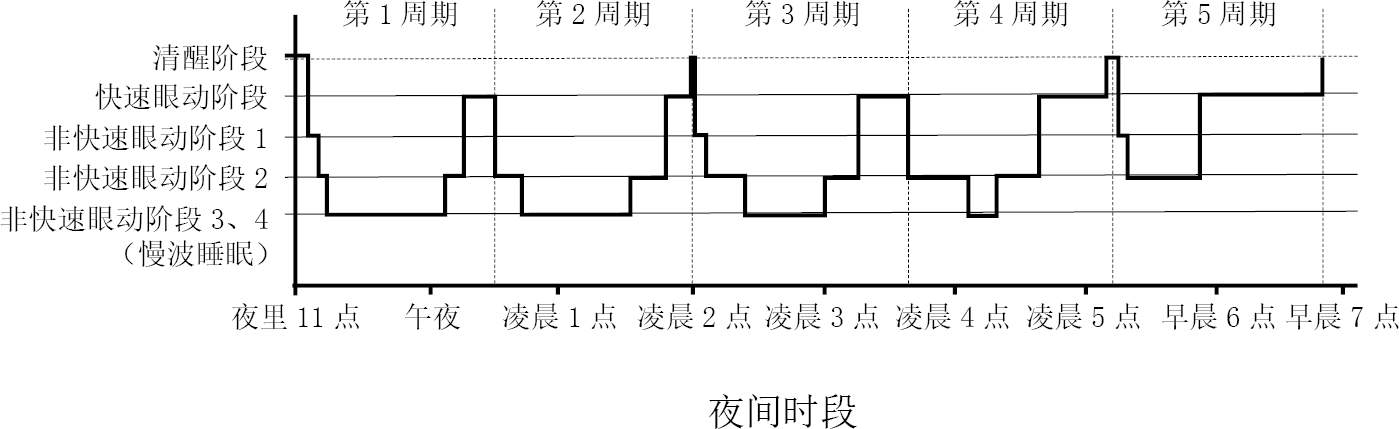
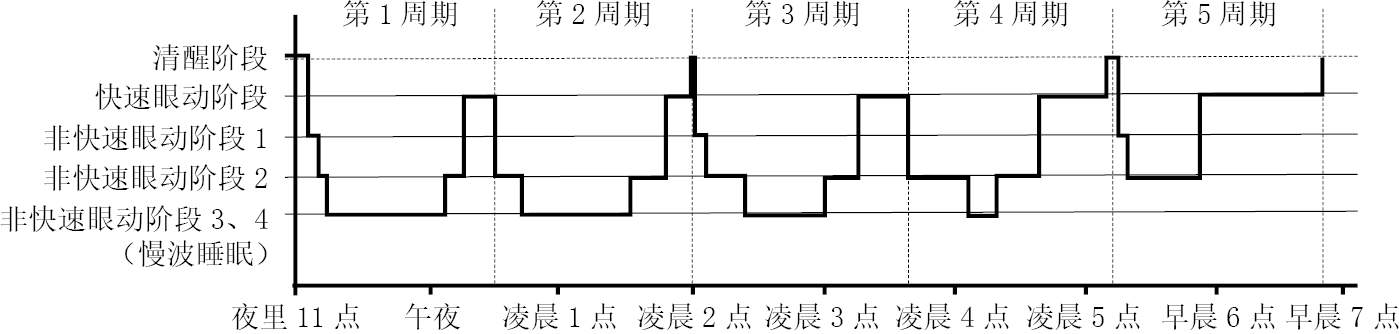
squoosh images

diff --git a/assets/css/main.scss b/assets/css/main.scss
@@ -67,13 +67,20 @@ section aside mark small {
 /* centered image tag */
 img.centered {
     display: block;
-    margin-top: 0.5rem;
-    margin-bottom: 3rem;
+    margin-top: 1rem;
+    margin-bottom: 0.5rem;
     margin-left: auto;
     margin-right: auto;
   }
 
-sup.lastest {
+/* simulate figcaption tag */
+img + em {
+    display: block;
+    text-align:center;
+    font-size: small;
+}
+
+sup.latest {
     position:absolute;
     right: -8px;
     top: -8px;

diff --git a/_includes/entry.html b/_includes/entry.html
@@ -5,7 +5,7 @@
     {%-include series_cards.html series=series -%}
 {% endif %}
 
-{% if entry.type == "lastest" and site.posts.size > 0 %}
+{% if entry.type == "latest" and site.posts.size > 0 %}
     {%-include column_desc.html entry=entry -%}
     {% if entry.category %} 
         {%-assign posts = site.categories[entry.category]-%} 

diff --git a/_includes/card.html b/_includes/card.html
@@ -1,6 +1,6 @@
 <aside style="position:relative;">
     {%- if forloop.first -%}
-        <sup class="lastest">最新</sup>
+        <sup class="latest">最新</sup>
         {% endif %}
     <a href="{{ post.url | relative_url }}">
     {% if post.cover_url %}

diff --git a/_posts/2022-07-25-wake-up-early-the-natural-way.md b/_posts/2022-07-25-wake-up-early-the-natural-way.md
@@ -31,7 +31,7 @@ tags: ['睡眠质量','早起']
 # 解释说明
 《我们为什么要睡觉》[^1]这本书解释了`睡眠周期`这一概念：正常人的睡眠可以分为`快速眼动睡眠(REM)`与`非快速眼动睡眠(NREM)`两个阶段，其中后者又可以被细分为4个阶段。入睡最初的3个小时，非快速眼动睡眠占主导地位，此时睡眠质量非常高，就是我们常说的`深度睡眠`。之后会慢慢过渡到快速眼动睡眠为主导的睡眠周期，也就是我们常说的`浅度睡眠`状态。其中，`深度`的定义是指被唤醒的难度。两个阶段大概每1.5小时交替一次，在交替过程中，人是容易醒来的。下图描述了这个过程，这张图在专业上被称作`睡眠时相序列图`：
 
-![睡眠时相序列图]({{site.url}}/assets/img/wake-up-early-the-natural-way/structure_of_sleep.png){:height="215" loading="lazy"}{:.centered}
+![睡眠时相序列图]({{site.url}}/assets/img/wake-up-early-the-natural-way/structure_of_sleep.webp){:height="215" loading="lazy"}{:.centered}
 *图片来源：《我们为什么要睡觉》*
 
 重点来了，如果一个人在睡眠的两个阶段中被唤醒，那人就会感到昏昏沉沉的，因为此时大脑深处其实还处于睡眠状态。而如果是在这两个阶段的交替的时候醒来，就会感觉神清气爽。
@@ -51,7 +51,7 @@ tags: ['睡眠质量','早起']
 
 ## 这个方法有什么缺点或限制吗？
 
-总的来说，人类对睡眠的认识还很肤浅。即使任何一个最新的科学解释或者试验发现，都只能解释很小一部分睡眠相关领域的现象。因此对待这些方法，总体原则应该是`拿来主义`：实践后认为合适自己的，就继续采用，如果发现不适合自己，就果断放弃。 
+总的来说，人类对睡眠的认识还很肤浅。即使任何一个最新的科学解释或者试验发现，都只能解释很小一部分睡眠相关领域的现象。因此对待这些方法，总体原则应该是**拿来主义**：实践后认为合适自己的，就继续采用，如果发现不适合自己，就果断放弃。 
 
 这个方法也是一样，对我有效，但不一定对你也有效。需要你在实践有自行判断。
 

diff --git a/_posts/2022-07-10-how-to-achieve-a-goal.md b/_posts/2022-07-10-how-to-achieve-a-goal.md
@@ -69,10 +69,10 @@ tags: ['个人成长', '达成目标', '方法论']
 当我们看清了机制，有了方法论后，我们努力了一段时间，可能会发现，我们确实有进步，但当前水平和卓越之间似乎有一道难以逾越的鸿沟。事实上，鸿沟是确实存在的，只有优秀的学习方法才能让我们跨越这道鸿沟。
 
 《认知觉醒》一书中指出，学习可以被分为被动学习和主动学习两个层次，就像一个金字塔，从上到下，学习效果越来越好。从下图我们可以看到所有的输入都是被动学习，都在金字塔上方，而所有的输出都是主动学习，都在金字塔下方。所以我们学习的一个关键就是要用**输出倒逼输入**。在输出的过程中，当我们发现自己没法向别人清晰的讲解我们学习的内容时，就发现了我们没有真正掌握的内容，就可以补上知识体系的漏洞。
-![学习的金字塔层级]({{site.url}}/assets/img/how-to-achieve-a-goal/pyramid_of_study.png){:width="587" loading="lazy"}{:.centered}
+![学习的金字塔层级]({{site.url}}/assets/img/how-to-achieve-a-goal/pyramid_of_study.webp){:width="587" loading="lazy"}{:.centered}
 
 核心方法论是：不要重复已经学会的，而是要不断地通过反馈找到似懂非懂的部分，反复练习这部分直到完全掌握，一直重复这个过程，就会进度很快。下图展示了可以练习的四个基本原则。
-![刻意练习的基本原则]({{site.url}}/assets/img/how-to-achieve-a-goal/basic_principles_of_practice.png){:width="695" loading="lazy"}{:.centered}
+![刻意练习的基本原则]({{site.url}}/assets/img/how-to-achieve-a-goal/basic_principles_of_practice.webp){:width="695" loading="lazy"}{:.centered}
 
 这些原则在《刻意练习》这本书里有详细介绍，推荐阅读。
 

diff --git a/_posts/2022-06-28-find-innovative-growth-tenfold-stocks.md b/_posts/2022-06-28-find-innovative-growth-tenfold-stocks.md
@@ -43,7 +43,7 @@ series_order: 2
 ## 离市场规模爆发还有多远
 如果一个产品既有足够的竞争力，又有庞大的潜在市场规模，则我们就需要进一步判断离大规模市场爆发还有多长时间。这决定了我们的投资时机。如果离大规模市场爆发还有好几年，那公司现金流耗尽破产的风险就会更大。这里可以用创新扩散曲线(见下图)来辅助判断当前的市场阶段，只有产品已经到了被早期使用者接受的程度才可以考虑投资，甚至在被早期大众接受的阶段也有足够的时间供公司成长。投资越早期，风险越高，资金的时间成本越高。所以如果判定不了，就过半年一年再来判定，宜迟不宜早，只要在创新扩散曲线的前半部分，都是合适的时机。
 
-![创新扩散曲线]({{site.url}}/assets/img/find-tenfold-stocks/innovation_diffusion_curve.png){:width="690" height="320" loading="lazy"}{:.centered}
+![创新扩散曲线]({{site.url}}/assets/img/find-tenfold-stocks/innovation_diffusion_curve.webp){:width="690" height="320" loading="lazy"}{:.centered}
 
 ## 没有明显的法律和道德风险障碍
 如果存在明显的法律道德风险，就无法判断产品的可持续性。这种情况下也不应该进行投资。比如加密货币有很强的创新性，潜在市场规模也很大，但因为法律法规的限制，可持续性很难判断。

diff --git a/_posts/2022-06-29-find-second-growth-curve-tenfold-stocks.md b/_posts/2022-06-29-find-second-growth-curve-tenfold-stocks.md
@@ -24,7 +24,7 @@ series_order: 3
 # 第二增长曲线型公司
 第二增长曲线型公司是指公司当前已经有至少一个比较稳定的业务，有稳定的营收与现金流，但业务增长比较平缓，正致力于开创下一个业务，试图通过该业务的发展来实现企业增长。正在开创的这个业务就是公司下阶段的增长引擎，因此被称为第二增长曲线。
 
-![第二增长曲线]({{site.url}}/assets/img/find-tenfold-stocks/second_growth_curve.png){:width="600" height="319" loading="lazy"}{:.centered}
+![第二增长曲线]({{site.url}}/assets/img/find-tenfold-stocks/second_growth_curve.webp){:width="600" height="319" loading="lazy"}{:.centered}
 
 已经成功发展出第二曲线的公司，如华为公司最开始的业务是设计制造电信设备，这是一个面向企业的业务。之后抓住了智能手机的市场机遇，成功的打造了手机这个面向消费者的业务，市场份额排名最高时为全球第二名。打造出了自己的第二增长曲线。
 

diff --git a/_posts/2022-06-27-slim-framework-for-ordinary.md b/_posts/2022-06-27-slim-framework-for-ordinary.md
@@ -17,7 +17,7 @@ updated_at: 2022-07-15
 # 是减脂，不是减体重
 一般想要瘦下来的人总认为想要瘦就一定要把体重减下来，但这其实是一个最普遍的误区，就是只关注体重的变化。实际上，想要看起来瘦，最应该关注的是体脂率。相同体重的人，体脂率低的看起来更瘦。也就是说，我们通常说的减肥，目标应该是减脂。下图是男女不同体脂率下的视觉效果，一目了然。
 
-![男女不同体脂率下的视觉效果]({{site.url}}/assets/img/slim-framework-for-ordinary/body_fat_percentage.jpeg){:width="400" loading="lazy"}{:.centered}
+![男女不同体脂率下的视觉效果]({{site.url}}/assets/img/slim-framework-for-ordinary/body_fat_percentage.webp){:width="400" loading="lazy"}{:.centered}
 
 一般来说，男性体脂率在12左右，女性体脂率在20左右，视觉上就非常瘦了。而且这是普通人只要付出一定努力就可以达到的，看了这篇文章，能更好的帮助你达到目标。
 

diff --git a/_posts/2022-07-14-how-to-improve-executive.md b/_posts/2022-07-14-how-to-improve-executive.md
@@ -72,7 +72,7 @@ tags: ['个人成长', '目标','执行力']
 
 ### 规划日程安排，明确时间和精力分配
 因此我们要主动把每天的过程具体化，多让自己处于“没得选”的状态。《认知觉醒》提供了一个日程规划的方法，我实践下来感觉不错。这个方法简单来说，就是在每天早上先把当天的大致计划**写下来**，然后晚上再对照实际的实施情况进行总结。下图是该方法的示例。
-![日程规划]({{site.url}}/assets/img/how-to-improve-executive/schedule.png){:width="472" loading="lazy"}{:.centered}
+![日程规划]({{site.url}}/assets/img/how-to-improve-executive/schedule.webp){:width="472" loading="lazy"}{:.centered}
 *图片来源：《认知觉醒》*
 
 这个方法的好处是会让我们有控制感，当我们感到当下有很多选项可以做的时候，看一下日程规划就可以找到那件具体的事情。即使我们会中途调整计划，但大方向始终在我们的掌握之中。
